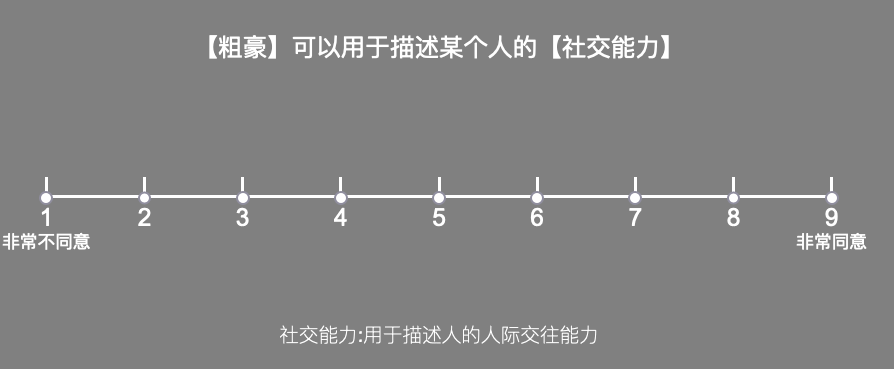
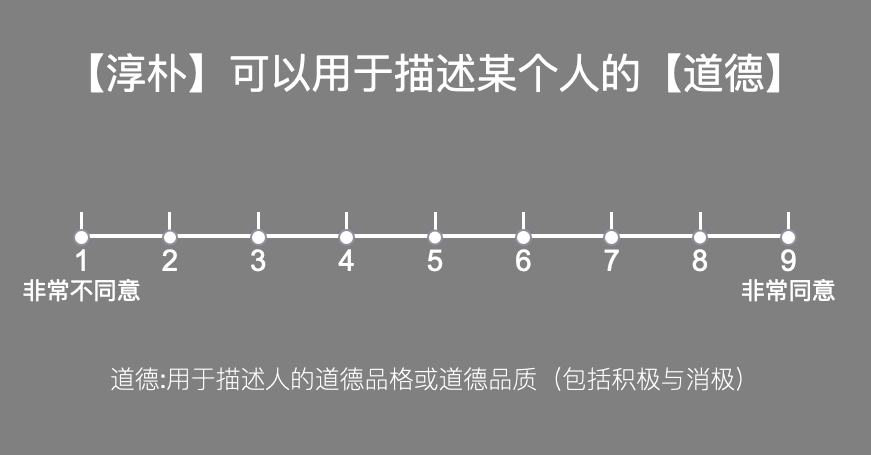
v5.1: new page

diff --git a/exp.js b/exp.js
@@ -179,7 +179,7 @@ function introducation_prac1() {
 <p class='example'>1  2  3  4  5  6  7  8  9 </p> \
 <p class='example'><br/>维度定义</p> \
 \
-<p>其中【维度】是从能力, 道德, 社交能力, 外貌, 社会经济地位五个维度中随机选出的，您需要对该段描述进行1-9分的评分，其中1分表示非常不同意，9分表示非常同意，在每次评分后请按“空格键”继续。</p> \
+<p>其中【维度】是从能力, 道德, 社交能力, 外貌, 社会经济地位五个维度中随机选出的，您需要对该段描述进行1-9分的评分，其中1分表示非常不同意，9分表示非常同意。评分可以采用鼠标点击相应数字，也可以直接在键盘上按相应数字键（1-9）进行评分，但在每次评分后都请按“空格键”继续。</p> \
 <p>其中：</p> \
 <p>道德：用于描述人的道德品格或道德品质（包括积极与消极）</p> \
 <p>能力：用于描述人可用来完成某一项目标或者任务的综合素质（这里的目标和任务不包括人际交往）</p> \
@@ -187,6 +187,12 @@ function introducation_prac1() {
 <p>外貌：用于描述人的长相、身材等</p> \
 <p>社会经济地位：用于描述人的社会地位和经济水平等</p> \
 <p><strong>请注意：</strong>这些词可能有积极词，也可能有消极词，请您不要根据积极和消极进行评分，而是依据该词是否适合用来描述该维度进行评分。</p>\
+</div>", "<div class='contacts'>   <p class='title' style='color:#fff'>维度评分</p> <div style='color: white;'class='content_box'>\
+<style>" + ss + " \
+</style>    \
+<div style='text-align: left; margin: 0 15% 0 15%;'>\
+<p>举个例子：“强盗”这个词，看到之后通常会想到”用暴力抢夺他人财物的人”，这时，虽然该词为消极词，但它是用来描述某人的道德水平低，因此对”【强盗】可以用于描述某个人的【道德】”这一问题的评分通常为8分或9分。而”拘泥”这个词，有的人看到后可能会想到它的动词含义，即“不懂得变通”，所以在”【拘泥】可以用于描述某个人的【能力】”这一问题上偏向于同意，即评分在7分以上；而有的人可能会联想到它的形容词含义，即”拘束,不自然“，所以他们认为这个词并不适合用来描述能力，即评分在3分以下；还有的人可能觉得这个词既可以描述，又不可以描述，那么此时的评分通常在5分左右。</p> \
+<p><strong>因此，看到词汇的感受是因人而异的，没有对错之分，在评定的时候依据自己的的第一感觉即可。</strong></p>\
 </div>", "<div class='contacts'>   <p class='title' style='color:#fff'>维度评分</p> <div style='color: white;'class='content_box'>\
             <style>" + ss + " \
         </style>    \
@@ -235,10 +241,17 @@ function introducation_prac2() {
 <p>您需要对给出的词语是否消极或者积极进行评分，在每次实验开始您会看到以下问题：</p> \
 <p class='example'>【词语】</p> \
 <p class='example'>1  2  3  4  5  6  7  8  9 </p> \
-<p class='example'>请表明您对该词语的积极/消极程度评分 </p> \
+<p class='example'></p> \
 <p class='example'>（1=非常消极，9=非常积极）</p> \
-<p>您需要对词语的积极/消极程度进行1-9分的评分，其中1分表示非常消极，9分表示非常积极，在每次评分后请按 “空格键” 继续。</p>\
+<p>您需要对词语的积极/消极程度进行1-9分的评分，其中1分表示非常消极，9分表示非常积极。评分可以采用鼠标点击相应数字，也可以直接在键盘上按相应数字键（1-9）进行评分，但在每次评分后都请按“空格键”继续。</p>\
 <p>如果您明白了，请按 <strong>继续</strong> 查看示例。</p> \
+\
+</div>", "<div class='contacts'>   <p class='title' style='color:#fff'>效度评分</p> <div style='color: white;'class='content_box'>\
+<style>" + ss + "\
+</style>    \
+<div style='text-align: left; margin: 0 15% 0 15%;'> \
+<p>举个例子：“缜密”这个词，看到之后通常会让人想到做事周到细致，因此对”【缜密】”的评价偏向于积极，即评分通常在7分以上；而”坏人”这个词，看到之后通常让人感觉害怕，因此对”【坏人】”的评价偏向于消极，即评分通常在3分以下；而”异想天开”这个词，既会让人想到荒唐离奇，也会让人想到超强的创新和想象力，因此对该词的评价偏向于中性，即评分通常在5分左右。</p> \
+<p><strong>因此，看到词汇的感受是因人而异的，没有对错之分，在评定的时候依据自己的的第一感觉即可。</strong></p> \
 \
 </div>", "<div class='contacts'>   <p class='title' style='color:#fff'>效度评分</p> <div style='color: white;'class='content_box'>\
 <style>" + ss + "\
@@ -300,17 +313,16 @@ function start() {
         questions: [
             {
                 prompt: function () {
-                    return jsPsych.timelineVariable("isTrap", true) ? jsPsych.timelineVariable("word", true) :
-                        '<p id="text">【' +
-                        jsPsych.timelineVariable("word", true) +
-                        '】可以用于描述某个人的【' + jsPsych.timelineVariable("dimension", true) +
-                        '】</p>';
+                    return "<p id='text'>" + 
+                        (jsPsych.timelineVariable("isTrap", true) ? jsPsych.timelineVariable("word", true) : 
+                        `【${jsPsych.timelineVariable("word")}】可以用于描述某个人的【${jsPsych.timelineVariable("dimension", true)}】`) +
+                        "</p>";
                 }, options: [1, 2, 3, 4, 5, 6, 7, 8, 9], horizontal: true
             }
         ],
         preamble: function () {
             return '<style> \
-            #text{ text-align: center; font-size: 25px; margin: 0 0 4.5em 0; }\
+            #text{ text-align: center; }\
             .jspsych-survey-multi-choice-option { \
                margin: 0 0 0 0; \
             } \
@@ -326,10 +338,9 @@ function start() {
               }, dime = jsPsych.timelineVariable("dimension", true);
               // 创建下方提示语
               let p = document.createElement("p");
-              p.innerHTML = jsPsych.timelineVariable("isTrap") ?  "" :
-                "" +
-                "<br/><br/><span style='font-weight: 100;'>" +
-                dime + ":" + describe[dime] +
+              p.innerHTML = "" +
+                "<br/><span style='font-weight: 100;'>" +
+                (jsPsych.timelineVariable("isTrap") ?  "" : dime + ":" + describe[dime]) +
                 "</span>";
               p.style = "font-size: 20px; font-weight: normal;line-height: normal;";
               p.id = "bottom";
@@ -349,7 +360,10 @@ function start() {
           
               $(".jspsych-survey-multi-choice-question").css("margin-bottom", "0");
               $(".jspsych-survey-multi-choice-option").css("margin", "0 0 0 0");
-              resize();
+              resize(1);
+            $(window).resize(function() { 
+                resize(1);
+            });
           
           
               $("input[type=radio]").on("input", function (a) {
@@ -384,6 +398,7 @@ function start() {
             $("body").unbind();
             clearTimeout(timeout);
             timeout = 0;
+            $(window).off("resize");
         },
         data: {
             save: true
@@ -433,13 +448,13 @@ function start() {
         let half = Math.floor(window.dd.length / 2);
         let deviation = Math.floor(Math.random() * (variable.length - half));
         variable.splice(half + deviation, 0, v);
-        console.log(jsPsych.utils.deepCopy(variable));
+        // console.log(jsPsych.utils.deepCopy(variable));
     });
     let prac2 = {
         type: 'survey-multi-choice',
         questions: [
             { prompt: function() {
-                return "<span style='font-size: 25px;' id='text'>" + jsPsych.timelineVariable("word", true) + "</span>";
+                return "<div style='font-size: 25px;' id='text'>" + jsPsych.timelineVariable("word", true) + "</div>";
             }, options: [1, 2, 3, 4, 5, 6, 7, 8, 9], horizontal: true }
         ],
         on_load: function () {
@@ -458,7 +473,10 @@ function start() {
         
             $(".jspsych-survey-multi-choice-question").css("margin-bottom", "0");
             $(".jspsych-survey-multi-choice-option").css("margin", "0 0 0 0");
-            resize();
+            resize(2);
+            $(window).resize(function() { 
+                resize(2);
+            });
 
             $("input[type=radio]").on("input", function (a) {
                 // 判断是否全部选择了
@@ -491,6 +509,7 @@ function start() {
 
             $("body").unbind();
             clearTimeout(timeout);
+            $(window).off("resize");
             timeout = 0;
         },
         data: {

diff --git a/utils.js b/utils.js
@@ -1,0 +1,57 @@
+function resize(type) {
+    let scale = Math.min($(document).height() / 764, $(document).width() / 1000);
+  
+    switch(type){ 
+        case 1:
+            $("#text").css({
+                "font-size": (35 * scale) + "px",
+                "margin": `0px 0px ${100 * scale}px`
+            });
+            break;
+        case 2:
+            $("#text").css({
+                "font-size": (50 * scale) + "px",
+                "margin": `-${70 * scale}px 0px ${100 * scale}px`
+            });
+            break;
+    }
+
+    $("#bottom").css(
+      "font-size", (21 * scale) + "px"
+    );
+    $("label").css({
+      "background-position": `${(75 * scale) / 2 - 1.5}px ${5 * scale}px,0px ${24 * scale}px`,
+      "background-size": `${20 * scale}px ${20 * scale}px, ${75 * scale}px ${3 * scale}px`,
+      "width": `${75 * scale}px`,
+      "font-size": `${25 * scale}px`,
+      "background-repeat": "no-repeat",
+      "display": "inline-block",
+      "background-image": "repeating-linear-gradient(90deg, #fff 0, #fff 3px, transparent 0, transparent 50px), linear-gradient(rgb(255, 255, 255), rgb(255, 255, 255))",
+      "line-height": `${25 * scale}px`
+    });
+    $(".jspsych-survey-multi-choice-text p").css({
+        "font-size": `${20 * scale}px`,
+        "width": `${100 * scale + 10}px`,
+        "margin": `0px 0px 0px ${-(100 * scale + 10) / 2 + ($('label').width()) / 2}px`
+    });
+    $("input[type=radio]").css({
+      "width": `${14 * scale}px`,
+      "height": `${14 * scale}px`,
+      "margin": `${20 * scale}px 0px 0px ${($("label").width() - (14 * scale)) / 2}px`,
+      "display": "block"
+    });
+  
+    $(".jspsych-survey-multi-choice-option").css({
+      "line-height": `${25 * scale}px`
+    });
+    $("label[for=jspsych-survey-multi-choice-response-0-0]").css({
+      "background-position": `${(75 * scale) / 2 - 1.5}px ${5 * scale}px,${$("label").width() / 2}px ${24 * scale}px`,
+      "background-size": `${20 * scale}px ${20 * scale}px, ${$("label").width() / 2}px ${3 * scale}px`
+    });
+  
+    $("label[for=jspsych-survey-multi-choice-response-0-8]").css({
+      "background-position": `${(75 * scale) / 2 - 1.5}px ${5 * scale}px,${0}px ${24 * scale}px`,
+      "background-size": `${20 * scale}px ${20 * scale}px, ${$("label").width() / 2}px ${3 * scale}px`
+    });
+  }
+  

diff --git a/index.js b/index.js
@@ -69,7 +69,7 @@ function begin_introduction() {
             <p class='para'><strong>隐私：</strong>我们将完全保密您在本实验中给出的所有信息。您的数据将被存在安全的数据库，您的信息将会被编码，您的名字也不会在任何报告中出现。此外，您数据中的隐私部分（包括姓名，联系方式等）将至少被安全保存<10>年。在该期限后，我们将会销毁这些信息以保护您的隐私。在实验结束后，去除所有个人信息的数据将会公布出来，以用于其他研究的使用和评估。</p>\
             <p class='para'><strong>自愿参与：</strong>是否让我们使用及分享您的数据将完全由您自愿决定。但是，参加本研究的前提是您愿意使用这种方式来分享您的数据。如果您不愿意，您将无法参加这项研究。</p>\
             <p class='para'><strong>退出实验的权利</strong>您有权在实验中的任何阶段退出本次实验，不会有任何的惩罚。我们会根据您完成实验的情况，补偿您在本实验所花费的时间。</p>\
-            <p class='para'><strong>如何退出：</strong>如果您决定退出本次实验，请告知实验员，我们会立即终止实验。 如果您有任何疑问，请联系：胡传鹏博士（南京师范大学心理学院，江苏省南京市鼓楼区宁海路122号，210024；Email: hcp4715@hotmail.com；Tel: 15910258380）</p>\
+            <p class='para'><strong>如何退出：</strong>如果您决定退出本次实验，请告知实验员，我们会立即终止实验。 如果您有任何疑问，请联系：胡传鹏博士（南京师范大学心理学院，江苏省南京市鼓楼区宁海路122号，210024；Email: hcp4715@hotmail.com；Tel: 15910258380） </p>\
             <p class='para'><strong>同意书：</strong>如果您点击“继续”按键继续实验，代表您同意向未来的研究共享您的数据，同意与来自世界各地研究机构的研究者共享您的数据。</p>\
             <p class='para foot'>南京师范大学心理学院•计算社会认知实验室</p>\
             </div> </div>"

diff --git a/index.php b/index.php
@@ -15,6 +15,7 @@
 
     <!-- 本实验的js函数 -->
     <script src="index.js"></script>
+    <script src="utils.js"></script>
     <!-- 这个word里面放的是单词，全部都在里面 -->
     <script src="word.js"></script>
     <script src="exp.js"></script>
@@ -25,7 +26,7 @@
 <script type="text/javascript">
     document.title = "SCTS";
     // 实验参数
-    let version = "v5";
+    let version = "v5-1";
     let exper_number = "SEV";
     let word_block_num = 80; // 单个block的单词数量
     let word_day = 320; // 第一天的单词数量
@@ -46,7 +47,7 @@
         "社交能力": "socialAbility",
         "外貌": "appearance",
         "社会经济地位": "socioEconomicStatus"
-    }
+    };
     // 以下非实验参数，最好不改
     let debug = false;
     let word_tmp; // 保存 当天需要的单词数量
@@ -81,54 +82,6 @@
             auto(); // 自动运行，方便调试
         }
     } // 这玩意，只是为了方便调试
-
-    function resize() {
-  let scale = Math.min($(document).height() / 764, $(document).width() / 1000);
-
-  $("#text").css(
-    "font-size", (25 * scale) + "px"
-  );
-  $("#bottom").css(
-    "font-size", (20 * scale) + "px"
-  );
-  $("label").css({
-    "background-position": `${(100 * scale) / 2 - 1.5}px ${5 * scale}px,0px ${24 * scale}px`,
-    "background-size": `${20 * scale}px ${20 * scale}px, ${100 * scale}px ${3 * scale}px`,
-    "width": `${100 * scale}px`,
-    "font-size": `${25 * scale}px`,
-    "background-repeat": "no-repeat",
-    "display": "inline-block",
-    "background-image": "repeating-linear-gradient(90deg, #fff 0, #fff 3px, transparent 0, transparent 50px), linear-gradient(rgb(255, 255, 255), rgb(255, 255, 255))",
-    "line-height": `${25 * scale}px`
-  });
-  $(".jspsych-survey-multi-choice-text p").css({
-      "font-size": `${18 * scale}px`,
-      "margin": "0 0 0 0"
-  })
-  $("input[type=radio]").css({
-    "width": `${14 * scale}px`,
-    "height": `${14 * scale}px`,
-    "margin": `${20 * scale}px 0px 0px ${($("label").width() - (14 * scale)) / 2}px`,
-    "display": "block"
-  });
-
-  $(".jspsych-survey-multi-choice-option").css({
-    "line-height": `${25 * scale}px`
-  });
-  $("label[for=jspsych-survey-multi-choice-response-0-0]").css({
-    "background-position": `${(100 * scale) / 2 - 1.5}px ${5 * scale}px,${$("label").width() / 2}px ${24 * scale}px`,
-    "background-size": `${20 * scale}px ${20 * scale}px, ${$("label").width() / 2}px ${3 * scale}px`
-  });
-
-  $("label[for=jspsych-survey-multi-choice-response-0-8]").css({
-    "background-position": `${(100 * scale) / 2 - 1.5}px ${5 * scale}px,${0}px ${24 * scale}px`,
-    "background-size": `${20 * scale}px ${20 * scale}px, ${$("label").width() / 2}px ${3 * scale}px`
-  });
-}
-
-$(window).resize(function() { 
-  resize();
-});
 
     // 第一步，填写实验编号
     mupsyStart({
@@ -179,7 +132,8 @@ $(window).resize(function() {
             }
         }, {
             type: "preload",
-            images: images
+            images: images,
+            show_progress_bar: false
         }],
         on_finish: function () {
             timeline.push(begin_introduction());
